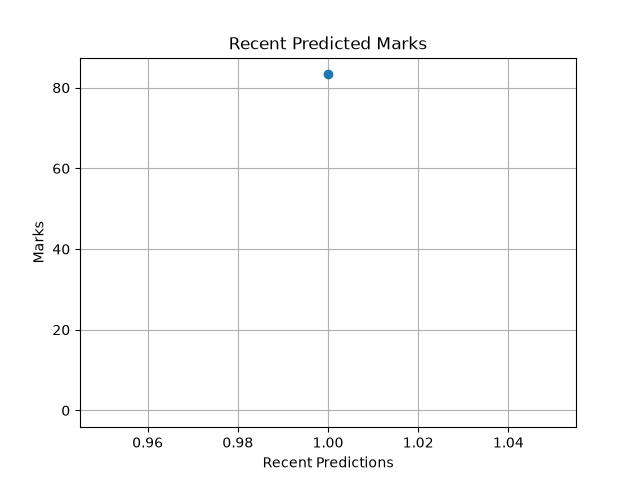
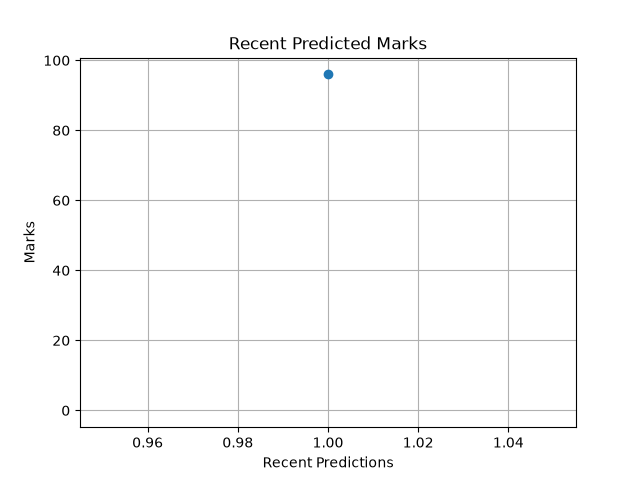
Day 25: Added timestamps to prediction history

diff --git a/static/css/style.css b/static/css/style.css
@@ -192,4 +192,7 @@ button[type="submit"]:hover{
     margin-top:-10px;
     font-size:15px;
 }
+.history-table td:first-child{
+    font-size:13px;
+}
 

diff --git a/templates/index.html b/templates/index.html
@@ -111,6 +111,7 @@
     <table class="history-table">
 
         <tr>
+            <th>Time</th>
             <th>Study Hours</th>
             <th>Attendance</th>
             <th>Assignments</th>
@@ -121,6 +122,7 @@
         {% for row in history %}
 
         <tr>
+            <td>{{ row.Timestamp }}</td>
             <td>{{ row.StudyHours }}</td>
             <td>{{ row.Attendance }}</td>
             <td>{{ row.AssignmentsCompleted }}</td>

diff --git a/app.py b/app.py
@@ -6,6 +6,8 @@ matplotlib.use("Agg")
 import matplotlib.pyplot as plt
 import os
 
+from datetime import datetime
+
 
 total_predictions = 0
 highest_marks = 0
@@ -84,13 +86,16 @@ def home():
             else:
                 performance = "Needs Improvement"
 
+            current_time = datetime.now().strftime("%d-%m-%Y %H:%M:%S")        
+
             # Save prediction
             new_prediction = pd.DataFrame({
+                "Timestamp": [current_time],
                 "StudyHours": [study_hours],
                 "Attendance": [attendance],
                 "AssignmentsCompleted": [assignments],
                 "PredictedMarks": [prediction],
-                "Performance": [performance]
+                "Performance": [performance],
             })
 
             if os.path.exists("prediction_history.csv"):